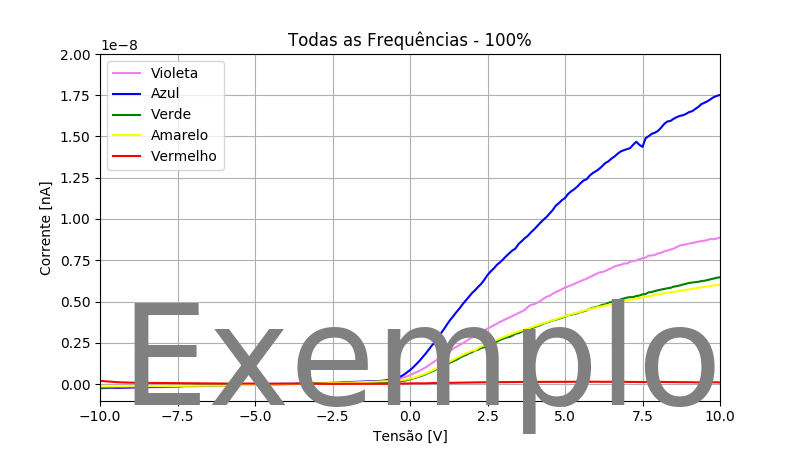
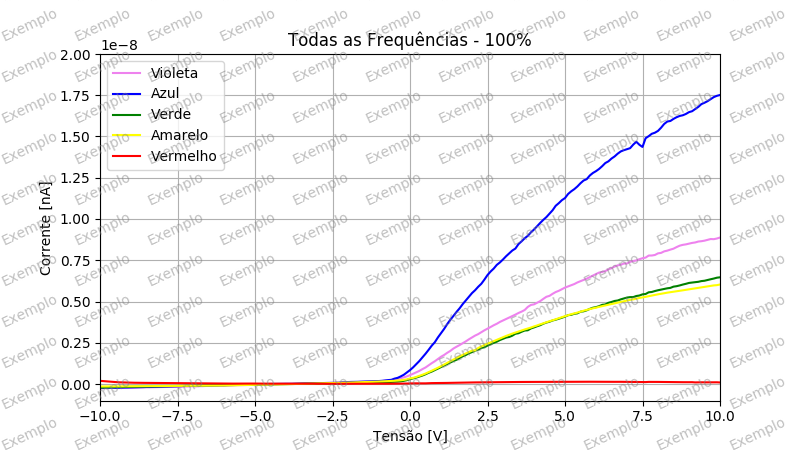
Version 5.2 - Add Method 3

diff --git a/medida.py b/medida.py
@@ -74,11 +74,9 @@ def plot_all(data, meth_1, meth_3, save=False, show_meth_1=False, show_meth_3=Fa
         plt.title(cores[j].capitalize())
         plt.xlim(-10, 10)
         plt.ylim(-1 * pow(10, -9), 2 * pow(10, -8))
-        # plt.figtext(0.18, 0.5, "Exemplo", fontsize=50, color='gray', alpha=50, rotation=25)
-        # plt.figtext(0.45, 0.5, "Exemplo", fontsize=50, color='gray', alpha=50, rotation=25)
-        # plt.figtext(0.75, 0.5, "Exemplo", fontsize=50, color='gray', alpha=50, rotation=25)
-        # plt.figtext(0.18, 0.1, "Exemplo", fontsize=50, color='gray', alpha=50, rotation=25)
-        # plt.figtext(0.45, 0.1, "Exemplo", fontsize=50, color='gray', alpha=50, rotation=25)
+        # for x in np.linspace(0, 1, 20):
+        #    for y in np.linspace(0, 1, 20):
+        #        plt.figtext(x, y, "Exemplo", fontsize=10, color='gray', alpha=.25, rotation=25)
         legenda = []
         for k in intensidade:
             for i in dias:
@@ -107,7 +105,9 @@ def plot_same_intensity(data, meth_1, meth_3, k=100, save=False, show_meth_1=Fal
     plt.title("Todas as Frequências - {}%".format(k))
     plt.xlim(-10, 10)
     plt.ylim(-1 * pow(10, -9), 2 * pow(10, -8))
-    # plt.figtext(0.15, 0.1, "Exemplo", fontsize=100, color='gray')
+    # for x in np.linspace(0, 1, 12):
+    #    for y in np.linspace(0, 1, 12):
+    #        plt.figtext(x, y, "Exemplo", fontsize=10, color='gray', alpha=.5, rotation=25)
     for j in cores:
         for i in dias:
             if i in data and j in data[i] and k in data[i][j]:
@@ -202,7 +202,7 @@ results_1 = {}
 results_2 = {}
 dt, noi_bias, noi_lamp = input_data()
 reduced = noise_removal(dt, noi_bias, noi_lamp, bias=1, lamp=0)  # troque de 1 para 0 caso não vá remover algum dos
-# tipos de ruido
+                                                                 # tipos de ruido
 # save_new_data(reduced)  # descomente essa linha para salvar os dados no formato .csv
 #results_1 = method_1(reduced, save=False)  # não está pronto
 #results_2 = method_3(reduced, save=False)
